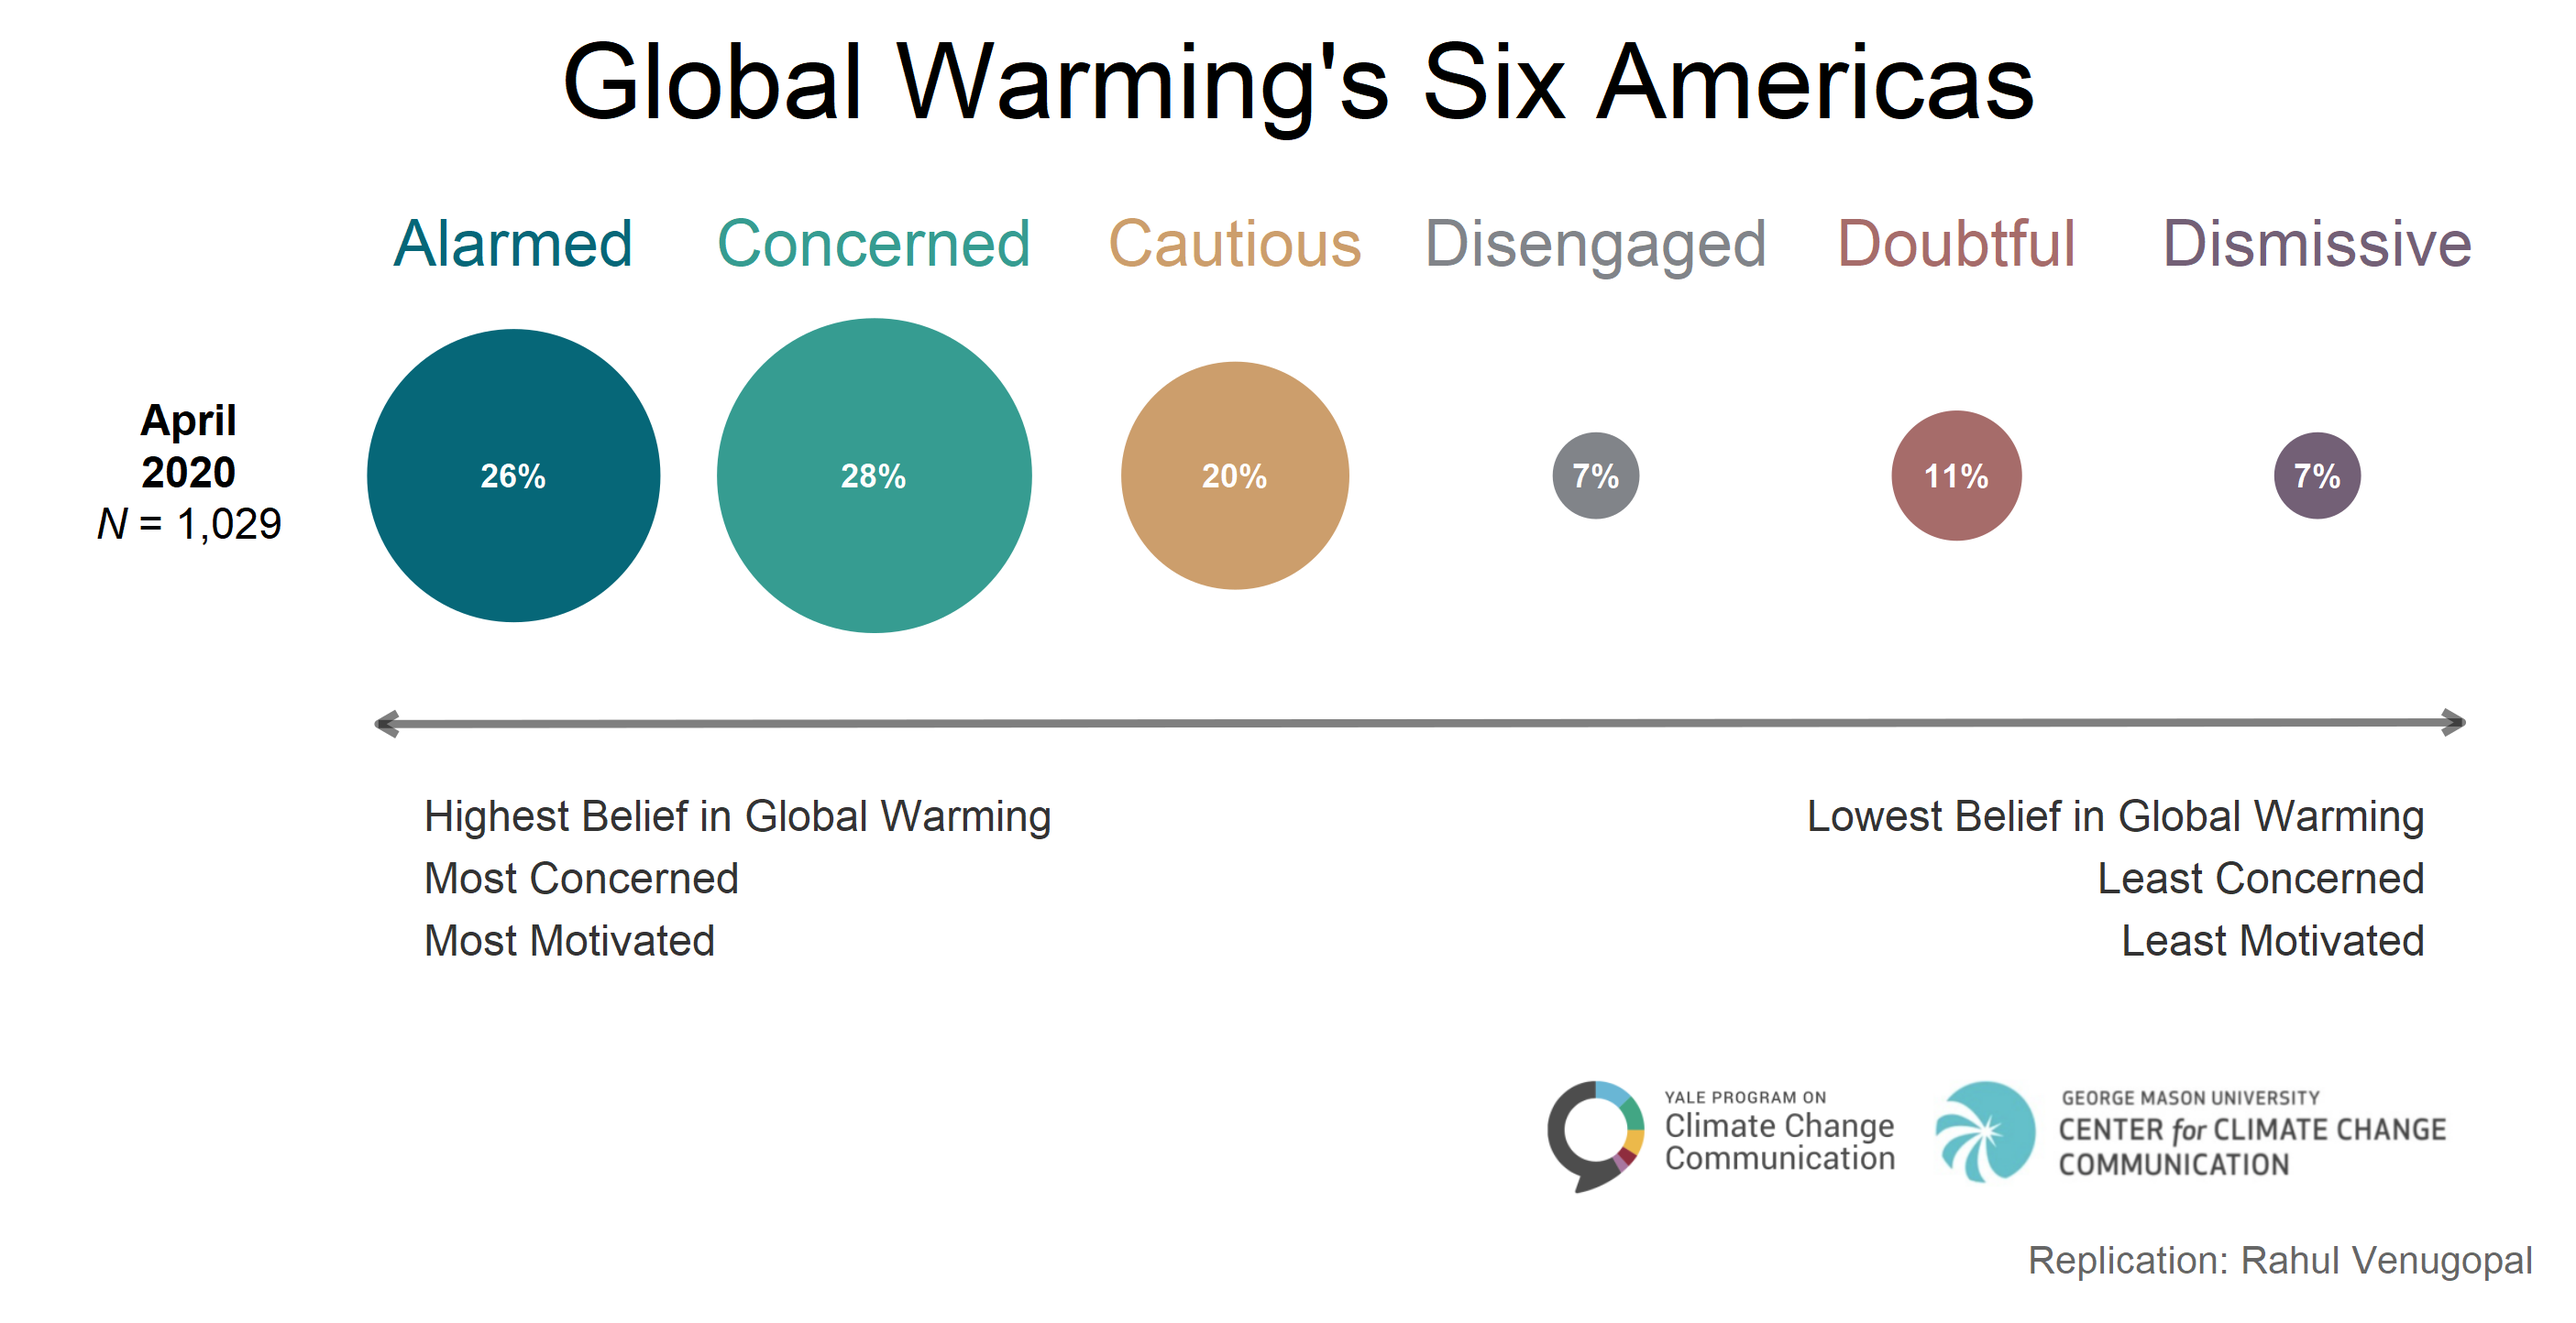
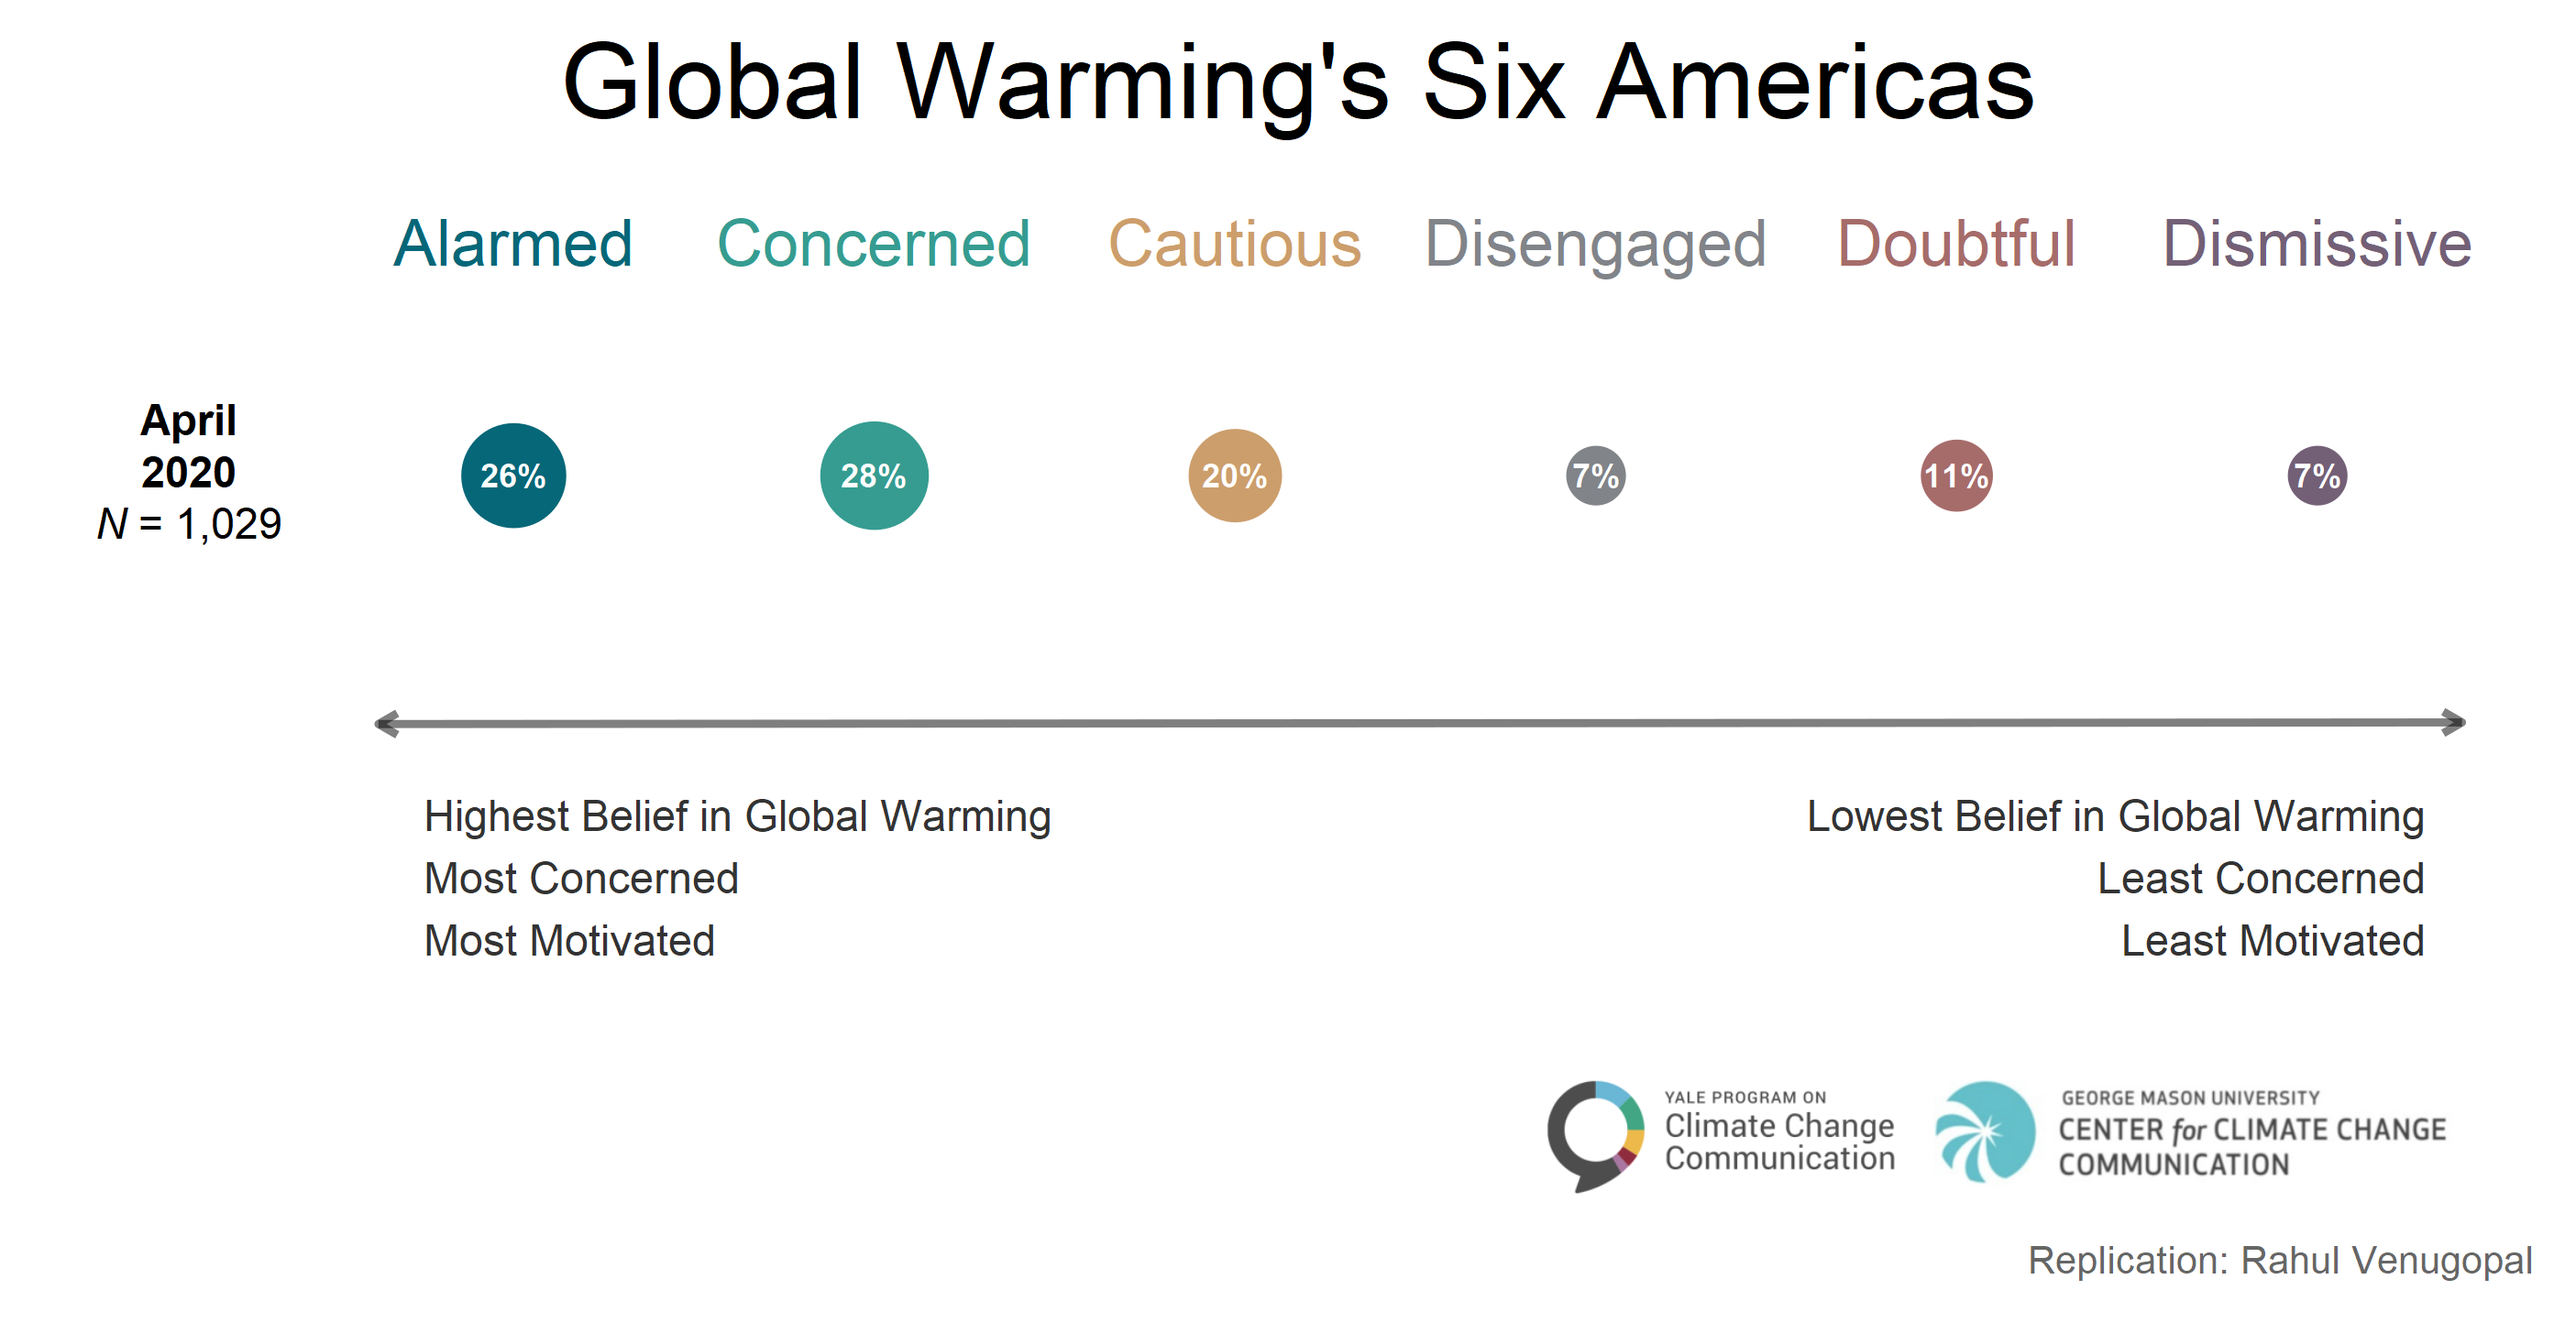
Fixed the scale_size_area
It turned out that the scaling by area to happen I had to put the size within aes of ggplot, not under geom_point()

diff --git a/Climate change communication/script/circle_finder.py b/Climate change communication/script/circle_finder.py
@@ -1,0 +1,22 @@
+# Source - Stack exchange
+# Finding circles in an image
+import cv2
+import numpy as np
+
+img = cv2.imread('compare.png',0)
+img = cv2.medianBlur(img,5)
+cimg = cv2.cvtColor(img,cv2.COLOR_GRAY2BGR)
+
+circles = cv2.HoughCircles(img,cv2.HOUGH_GRADIENT,1,20,
+                            param1=50,param2=30,minRadius=0,maxRadius=0)
+
+circles = np.uint16(np.around(circles))
+for i in circles[0,:]:
+    # draw the outer circle
+    cv2.circle(cimg,(i[0],i[1]),i[2],(0,255,0),2)
+    # draw the center of the circle
+    cv2.circle(cimg,(i[0],i[1]),2,(0,0,255),3)
+
+cv2.imshow('detected circles',cimg)
+cv2.waitKey(0)
+cv2.destroyAllWindows()

diff --git a/README.md b/README.md
@@ -7,5 +7,10 @@
 ![](https://raw.githubusercontent.com/rahulvenugopal/ReplicateViz/main/Climate%20change%20communication/images/Global%20warming%20replication.png)
 
 - Read more from the [source](https://climatecommunication.yale.edu/publications/climate-change-in-the-american-mind-september-2021/)
+- Takeaways
+1. 2D plots are not intuitive for comparisons like this
+2. Barplots are just fine
+3. Spotted that the areas are wrongly scaled! Have asked twitter world
+4. Came to know about a python program to detect circles in an image
 ---
 
